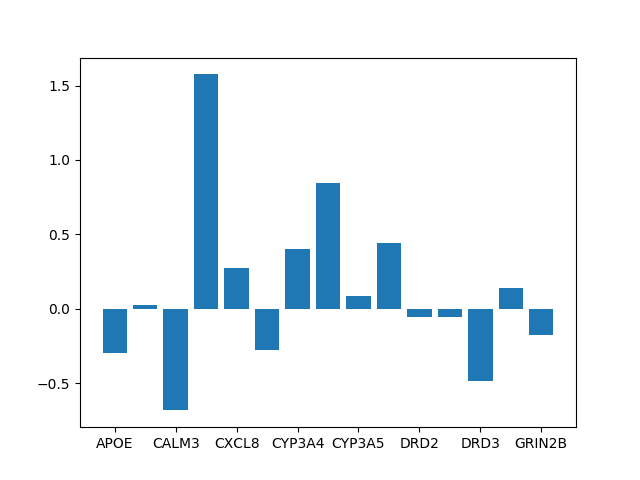
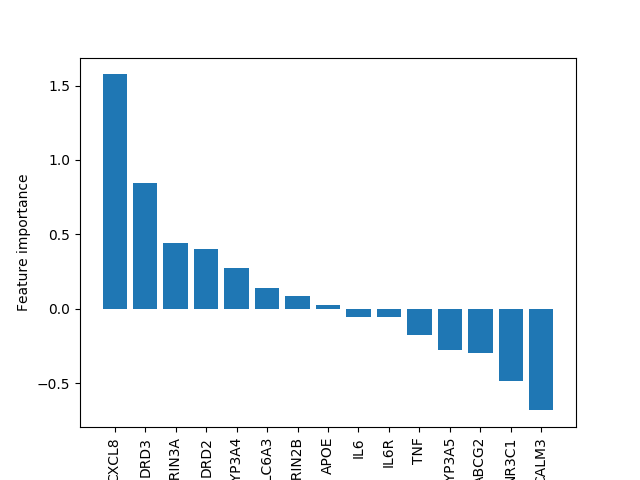
updating plot formatting feat imp

diff --git a/ML_network_positives_negatives/save_and_plot_feat_imp_scores.py b/ML_network_positives_negatives/save_and_plot_feat_imp_scores.py
@@ -19,10 +19,15 @@ for fif in allf:
 	df.to_excel(writer,sheet_name = dme)
 
 	fig,ax = plt.subplots()
-	(bar_vals,bar_labels) = zip(*fi)
+	sorted_fi = sorted(fi,key = lambda x: x[0],reverse=True)
+	(bar_vals,bar_labels) = zip(*sorted_fi)
 	bar_inds = [i for (i,x) in enumerate(bar_vals)]
 	ax.bar(bar_inds,bar_vals)
+	ax.set_xticks(bar_inds)
 	ax.set_xticklabels(bar_labels)
+	plt.xticks(rotation=90)
+	ax.set_ylabel("Feature importance")
+	ax.set_xlabel("Network proteins")
 	plt.savefig(os.path.join(rdir,"feature_importance_bar_"+dme+".png"),format="png")
 writer.save()
 #fif ='tardive_dyskinesia_feat_imp_scores_092920.pkl'
